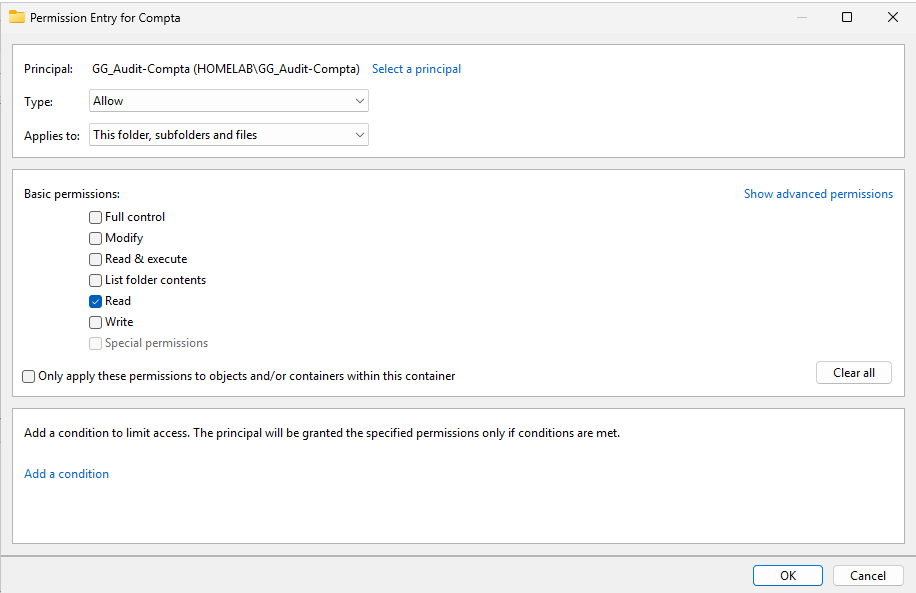
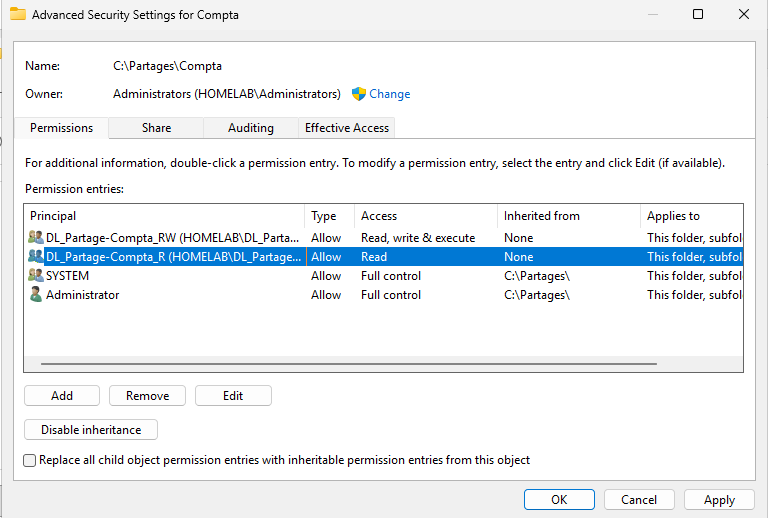
19/10 screenshots

Changed region(s): [[0.0, 0.0, 1.0, 0.9884]]

diff --git a/journal/2026-10-19.md b/journal/2026-10-19.md
@@ -1,0 +1,149 @@
+# Journal — 19 octobre 2026
+
+## Objectif de la séance
+
+Mettre en place les partages de fichiers des services de Homelab SARL, avec des droits d'accès construits selon la méthode AGDLP, puis traiter deux demandes d'utilisateurs liées aux accès.
+
+Séance menée en autonomie à partir d'une feuille de mission.
+
+## Réalisé
+
+- Création du dossier racine `C:\Partages` et de trois sous-dossiers : `Compta`, `RH`, `Commun`
+- Partage de la racine sur le réseau : `\\SRV-DC01\Partages`
+- Création des groupes de permission (domaine local) et imbrication des groupes de rôle
+- Configuration des droits NTFS : racine verrouillée, un groupe de permission par sous-dossier
+- Connexion du lecteur réseau `Z:` sur PC-CLIENT01 et tests avec plusieurs utilisateurs
+- Activation de la fonctionnalité *Privileged Access Management* de la forêt
+- Traitement de deux tickets : TKT-005 et TKT-006
+
+## Architecture retenue
+
+Un seul partage racine contenant un dossier par service, plutôt qu'un partage par service :
+- un seul partage à administrer et un seul lecteur réseau à connecter pour tous les utilisateurs ;
+- l'ajout d'un service se limite à la création d'un sous-dossier et d'un groupe de permission.
+
+Le partage s'appelait d'abord `Partagés`. Il a été renommé `Partages` : certains logiciels, scripts ou appareils gèrent mal les caractères accentués dans les chemins réseau, et la convention de nommage du lab exclut déjà les accents.
+
+![Assistant de création du partage](../screenshots/2026-10-19/2026-10-09_srv-dc01_sharedfolder-wizard.png)
+
+![Nom et description du partage](../screenshots/2026-10-19/2026-10-09_srv-dc01_sharedfolder-wizard2.png)
+
+## Méthode AGDLP
+
+```
+Utilisateurs  →  Groupe global (rôle)  →  Groupe domaine local (permission)  →  Dossier
+Alice, Thomas →  GG_Compta             →  DL_Partage-Compta_RW               →  Compta
+```
+
+| Groupe de permission (domaine local) | Membre(s) | Dossier |
+| --- | --- | --- |
+| `DL_Partage-Compta_RW` | `GG_Compta` | `Compta` |
+| `DL_Partage-RH_RW` | `GG_RH` | `RH` |
+| `DL_Partage-Commun_RW` | `Domain Users` | `Commun` |
+| `DL-Partage-Compta_R` | `GG-Audit-Compta` | `Compta`, lecture seule (TKT-006) |
+
+- Les droits NTFS sont attribués aux groupes de permission, jamais directement aux utilisateurs.
+- Un mouvement de personnel ne modifie que les groupes de rôle. Un nouveau dossier ne demande qu'un nouveau groupe de permission.
+- `Domain Users` est placé dans `DL_Partage-Commun_RW` : tout compte du domaine, y compris un nouvel arrivant sans groupe de service, accède automatiquement au dossier commun.
+- Seuls les groupes réellement nécessaires sont créés : `_RW` pour chaque service, `_R` uniquement lorsqu'un besoin de lecture seule est apparu (TKT-006).
+
+![Création d'un groupe domaine local](../screenshots/2026-10-19/2026-10-09_srv-dc01_creating-DL.png)
+
+![Groupes de permission](../screenshots/2026-10-19/2026-10-09_srv-dc01_creating-DL2.png)
+
+![Imbrication d'un groupe de rôle dans un groupe de permission](../screenshots/2026-10-19/2026-10-09_srv-dc01_associate-dl-gg.png)
+
+## Droits du partage et droits NTFS
+
+Un dossier partagé a deux niveaux de droits, et l'accès réel par le réseau est le plus restrictif des deux :
+
+| | Droits de partage | Droits NTFS |
+| --- | --- | --- |
+| S'appliquent | Uniquement par le réseau | Toujours, en local comme par le réseau |
+| Portée | Le partage entier | Chaque dossier et fichier, avec héritage |
+| Niveaux | Read, Change, Full Control | Une douzaine de droits, plus les droits avancés |
+
+Principe retenu : des droits de partage larges pour les utilisateurs authentifiés, et toute la finesse gérée par NTFS.
+
+Le groupe `Everyone`, présent par défaut sur le partage, a été remplacé par `Authenticated Users`, qui ne contient que des comptes authentifiés.
+
+![Droits du partage](../screenshots/2026-10-19/2026-10-09_srv-dc01_replace-authenticatedusers.png)
+
+### Dossier racine
+
+Le dossier racine héritait des droits de `C:\`, dont ceux du groupe intégré `Users`. Sur un contrôleur de domaine, ce groupe contient tous les utilisateurs du domaine : tout le monde pouvait lire la racine, et ces droits seraient descendus dans tous les sous-dossiers. En NTFS, les droits s'additionnent : ajouter un groupe sur un sous-dossier ne retire pas un accès hérité.
+
+Correction :
+1. Désactivation de l'héritage, avec conversion des droits hérités en droits explicites.
+2. Suppression des entrées `Users`.
+3. Conservation de `Administrators`, `SYSTEM` et `CREATOR OWNER`.
+4. Ajout des trois groupes `DL_…_RW` en lecture, appliquée à **ce dossier seulement** (*This folder only*) : les utilisateurs peuvent ouvrir la racine pour atteindre leur dossier, sans que ce droit ne descende dans les sous-dossiers ni ne permette de créer des fichiers à la racine.
+
+![Désactivation de l'héritage](../screenshots/2026-10-19/2026-10-09_srv-dc01_inheritance.png)
+
+![Racine après suppression des droits hérités](../screenshots/2026-10-19/2026-10-09_srv-dc01_securitysettings.png)
+
+![Entrée « This folder only »](../screenshots/2026-10-19/2026-10-09_srv-dc01_dossier-partage-permissions-group.png)
+
+![Droits finaux de la racine](../screenshots/2026-10-19/2026-10-09_srv-dc01_dossier-partage-permissions-group2.png)
+
+### Sous-dossiers
+
+Les sous-dossiers conservent l'héritage de la racine (`Administrators`, `SYSTEM`, `CREATOR OWNER`) et reçoivent leur groupe de permission, appliqué au dossier, à ses sous-dossiers et à ses fichiers.
+
+![Droits du dossier Commun](../screenshots/2026-10-19/2026-10-09_srv-dc01_security-commun.png)
+
+## Tests depuis PC-CLIENT01
+
+Lecteur `Z:` connecté sur `\\SRV-DC01\Partages`. Tous les tests sont réalisés avec des comptes utilisateurs, jamais avec un compte administrateur.
+
+| Utilisateur | Action | Résultat |
+| --- | --- | --- |
+| Alice Martin (Comptabilité) | Ouvrir `Compta` et y créer un dossier | Accès autorisé |
+| Alice Martin | Ouvrir `RH` | Accès refusé |
+| Utilisateur du domaine | Créer un fichier à la racine | Accès refusé |
+| Thomas Girard, sans groupe de service | Ouvrir `Commun` | Accès autorisé, grâce à `Domain Users` |
+| Thomas Girard, sans groupe de service | Ouvrir `Compta` | Accès refusé |
+| Sophie Lefèvre (RH), après TKT-006 | Ouvrir `Compta` | Accès en lecture |
+
+![Connexion du lecteur réseau](../screenshots/2026-10-19/2026-10-09_pc-client01_mapnetworkdrive.png)
+
+![Création refusée à la racine](../screenshots/2026-10-19/2026-10-09_pc-client01_access-root.png)
+
+![Alice : accès au dossier Compta](../screenshots/2026-10-19/2026-10-09_pc-client01_alice_access_compta.png)
+
+![Alice : accès refusé au dossier RH](../screenshots/2026-10-19/2026-10-09_pc-client01_alice_noaccess_rh.png)
+
+## Changement : activation de Privileged Access Management
+
+La fonctionnalité *Privileged Access Management Feature* a été activée sur la forêt `homelab.internal` pour permettre des appartenances temporaires aux groupes (TKT-006).
+
+- **Irréversible** : snapshot de SRV-DC01 pris avant l'activation.
+- **Prérequis** : niveau fonctionnel de forêt Windows Server 2016 ou supérieur (ici 2025), et droits *Enterprise Admins*. L'opération a été réalisée avec le compte `Administrator`, `dantoine.adm` n'étant membre que de *Domain Admins*.
+- En entreprise, cette activation relève d'une décision d'architecture, à valider avant toute mise en œuvre.
+
+![Activation de la fonctionnalité](../screenshots/2026-10-19/2026-10-09_tkt-006_PAM1.png)
+
+![Vérification de l'activation](../screenshots/2026-10-19/2026-10-09_tkt-006_PAM2.png)
+
+## Tickets traités
+
+| Ticket | Type | Résumé |
+| --- | --- | --- |
+| [TKT-005](../tickets/tkt-005_acces-refuse-compta.md) | Incident | Accès refusé au dossier Compta après ajout au groupe |
+| [TKT-006](../tickets/tkt-006_acces-temporaire-audit.md) | Demande de service | Accès temporaire en lecture au dossier Compta pour un audit |
+
+## Notions clés
+
+- **AGDLP** : Accounts → Global → Domain Local → Permissions. Les utilisateurs vont dans des groupes globaux de rôle, imbriqués dans des groupes domaine local de permission, seuls à recevoir les droits.
+- **Droits de partage et droits NTFS** : deux niveaux combinés, le plus restrictif l'emporte.
+- **Héritage NTFS** : un dossier hérite des droits de son parent. Les droits s'additionnent : un accès hérité ne disparaît pas quand on ajoute un groupe.
+- **This folder only** : un droit qui ne s'applique qu'au dossier lui-même, sans descendre vers son contenu.
+- **`Users` et `Domain Users`** : `Users` est un groupe local intégré, `Domain Users` est le groupe global de tous les comptes du domaine.
+- **Effective Access** : simulateur des droits NTFS d'un utilisateur sur un dossier, qui indique aussi si le partage limite l'accès. Outil de diagnostic, il n'attribue aucun droit.
+- **Jeton de session** : les groupes d'un utilisateur sont pris en compte à l'ouverture de session. Un groupe ajouté pendant la session n'est effectif qu'après reconnexion.
+- **Appartenance temporaire (PAM)** : un membre peut être ajouté à un groupe pour une durée limitée, au terme de laquelle il en sort automatiquement.
+
+## Prochaine étape
+
+Stratégies de groupe (GPO) : connexion automatique du lecteur réseau, paramètres des postes.

diff --git a/tickets/tkt-006_acces-temporaire-audit.md b/tickets/tkt-006_acces-temporaire-audit.md
@@ -1,0 +1,85 @@
+# TKT-006 — Accès temporaire au dossier Compta pour l'audit annuel
+
+| Champ | Valeur |
+| --- | --- |
+| Type | Demande de service |
+| Demandeur | Sophie Lefèvre (RH) |
+| Bénéficiaire | Sophie Lefèvre (RH) |
+| Date d'ouverture | 19/10/2026 |
+| Date de fin d'accès | 18/11/2026 (retrait automatique) |
+| Priorité | Basse (demande planifiée, aucun utilisateur bloqué) |
+| Statut | En attente (accès actif jusqu'au 18/11/2026) |
+
+## Description
+Pour l'audit annuel, j'ai besoin de consulter le dossier Compta pendant un mois.
+
+## Diagnostic
+- La demande porte sur les données d'un autre service : la décision appartient au responsable de la comptabilité, propriétaire des données. Validation demandée et obtenue (simulée dans le cadre du lab).
+- Besoin : **lecture seule**, pour une durée de **30 jours**.
+- Options écartées :
+  - ajouter `GG_RH` aux droits de `Compta` : tout le service RH aurait obtenu l'accès ;
+  - ajouter Sophie directement dans les droits du dossier ou dans un groupe domaine local : contraire à AGDLP, et difficile à suivre dans le temps.
+- Solution retenue : un groupe de rôle dédié à l'audit, imbriqué dans un groupe de permission en lecture seule, avec une appartenance limitée dans le temps.
+
+## Suivi
+
+### 19/10/2026 — Mise en place de l'accès
+
+**Actions :**
+1. Création du groupe domaine local `DL-Partage-Compta_R`, pour la lecture seule du dossier `Compta`.
+2. Création du groupe global `GG-Audit-Compta`, membre de `DL-Partage-Compta_R`.
+3. Ajout d'une entrée en lecture sur le dossier `Compta`, appliquée au dossier, à ses sous-dossiers et à ses fichiers.
+4. Activation de la fonctionnalité *Privileged Access Management* de la forêt (changement documenté dans le journal du 19/10/2026).
+5. Ajout de Sophie Lefèvre au groupe pour 30 jours :
+
+```powershell
+Add-ADGroupMember -Identity 'GG_Audit-Compta' -Members 'slefevre' -MemberTimeToLive (New-TimeSpan -Days 30)
+```
+
+![Création du groupe de permission](../screenshots/2026-10-19/2026-10-09_tkt-006_create-dl.png)
+
+![Création du groupe de rôle](../screenshots/2026-10-19/2026-10-09_tkt-006_create-gg.png)
+
+![Imbrication des groupes](../screenshots/2026-10-19/2026-10-09_tkt-006_dl-gg-membersof.png)
+
+![Entrée en lecture sur Compta](../screenshots/2026-10-19/2026-10-09_tkt-006_Add-audit-permission.png)
+
+![Ajout temporaire au groupe](../screenshots/2026-10-19/2026-10-09_tkt-006_PAM-temporary-access.png)
+
+**Vérification :**
+- Durée restante de l'appartenance, consultable uniquement en PowerShell :
+
+```powershell
+Get-ADGroup 'GG_Audit-Compta' -Properties member -ShowMemberTimeToLive | Select-Object -ExpandProperty member
+```
+
+```
+<TTL=2591767>,CN=Sophie Lefèvre,OU=Employees,OU=Internal,OU=Users,OU=ORG,DC=homelab,DC=internal
+```
+
+2 591 767 secondes, soit 30 jours.
+
+- Sophie accède au dossier `Compta` en lecture depuis PC-CLIENT01.
+
+![Durée restante](../screenshots/2026-10-19/2026-10-09_tkt-006_slefevre-timeleft.png)
+
+![Accès de Sophie à Compta](../screenshots/2026-10-19/2026-10-09_tkt-006_slefevre-access-compta.png)
+
+**Message au demandeur :**
+
+> Bonjour Sophie,
+>
+> Avec l'accord du responsable de la comptabilité, vous disposez d'un accès en lecture seule au dossier Compta jusqu'au 18 novembre 2026. Cet accès sera retiré automatiquement à cette date.
+>
+> Pour qu'il soit pris en compte, fermez votre session puis reconnectez-vous.
+>
+> Le support informatique
+
+**Statut :** En attente (fin d'accès le 18/11/2026)
+
+## Leçon retenue
+- Un accès à des données d'un autre service se valide avec le **propriétaire des données**, pas seulement avec le demandeur.
+- Un groupe dédié au besoin (ici l'audit) permet de retirer l'accès sans affecter personne d'autre, et de le réutiliser l'année suivante.
+- L'appartenance temporaire (`-MemberTimeToLive`) retire automatiquement l'utilisateur du groupe, et les tickets Kerberos délivrés sont limités à la durée restante : l'accès ne survit pas à l'expiration.
+- Cette appartenance n'apparaît pas dans les consoles graphiques : elle doit impérativement être documentée dans le ticket.
+- L'activation de *Privileged Access Management* est irréversible : en entreprise, c'est une décision d'architecture, à prendre avant de traiter un ticket.

diff --git a/tickets/tkt-005_acces-refuse-compta.md b/tickets/tkt-005_acces-refuse-compta.md
@@ -1,0 +1,72 @@
+# TKT-005 — Accès refusé au dossier Compta après ajout au groupe
+
+| Champ | Valeur |
+| --- | --- |
+| Type | Incident |
+| Demandeur | Thomas Girard (Comptabilité) |
+| Date d'ouverture | 19/10/2026 |
+| Date de clôture | 19/10/2026 |
+| Priorité | Moyenne (impact faible : un seul utilisateur ; urgence moyenne : il ne peut pas accéder à ses fichiers de travail) |
+| Statut | Clos |
+
+## Description
+Je viens d'être ajouté au groupe de la compta, mais j'ai toujours « Accès refusé » sur le dossier Compta.
+
+## Reproduction
+1. Retrait de Thomas Girard du groupe `GG_Compta`.
+2. Ouverture de session de Thomas sur PC-CLIENT01.
+3. Ajout de Thomas à `GG_Compta` pendant que sa session est ouverte.
+4. Tentative d'ouverture de `\\SRV-DC01\Partages\Compta`.
+
+![Retrait du groupe](../screenshots/2026-10-19/2026-10-09_tkt-005_remove-thomas-group.png)
+
+![Session ouverte sur PC-CLIENT01](../screenshots/2026-10-19/2026-10-09_tkt-005_login-thomas.png)
+
+![Ajout au groupe, session ouverte](../screenshots/2026-10-19/2026-10-09_tkt-005_add-thomas-group.png)
+
+## Diagnostic
+- **Côté poste** : accès refusé à `Compta`. L'accès à `Commun` fonctionne : le poste joint bien le serveur et le partage.
+- **Côté Active Directory** : Thomas est bien membre de `GG_Compta`, lui-même membre de `DL_Partage-Compta_RW`.
+- **Côté serveur** : l'onglet *Effective Access* du dossier `Compta`, pour l'utilisateur `tgirard`, montre que l'accès en lecture lui est accordé.
+- **Conclusion** : le serveur et l'annuaire autorisent l'accès, mais la session de Thomas ne le reflète pas. Son appartenance au groupe n'est pas prise en compte par la session en cours.
+
+![Accès refusé à Compta](../screenshots/2026-10-19/2026-10-09_tkt-005_thomas-noaccess-compta.png)
+
+![Accès à Commun](../screenshots/2026-10-19/2026-10-09_tkt-005_thomas-access-commun.png)
+
+![Effective Access de Thomas sur Compta](../screenshots/2026-10-19/2026-10-09_tkt-005_thomas-effectiveaccess-compta.png)
+
+## Cause
+Les groupes d'un utilisateur sont inscrits dans son jeton de session et dans ses tickets Kerberos au moment de l'ouverture de session. Un groupe ajouté pendant la session n'est pas pris en compte tant que l'utilisateur ne s'est pas reconnecté.
+
+## Suivi
+
+### 19/10/2026 — Résolution
+
+**Actions :**
+- Demande à l'utilisateur de fermer complètement sa session (*Sign out*), puis de se reconnecter.
+
+**Vérification :**
+- Accès au dossier `Compta` et à son contenu.
+
+![Accès à Compta après reconnexion](../screenshots/2026-10-19/2026-10-09_tkt-005_restartsession-thomas-access-compta.png)
+
+**Statut :** Clos
+
+## Observation
+Pendant le test, la commande `whoami /groups` exécutée sur le poste affichait déjà `GG_Compta` et `DL_Partage-Compta_RW`, alors que l'accès au dossier était refusé. Le jeton de la session locale et les tickets Kerberos présentés au serveur de fichiers peuvent ne pas être synchronisés : `whoami` ne reflète donc pas toujours ce que voit le serveur. La commande `klist` affiche les tickets Kerberos, dont celui du serveur de fichiers (`cifs/SRV-DC01`), et `klist purge` les supprime pour forcer leur renouvellement.
+
+## Message de clôture
+
+> Bonjour Thomas,
+>
+> Votre accès au dossier Compta fonctionne. Quand on vous ajoute à un nouveau groupe, l'accès n'est pris en compte qu'à la prochaine ouverture de session : il suffisait de vous déconnecter puis de vous reconnecter.
+>
+> N'hésitez pas à nous recontacter si le problème se reproduit.
+>
+> Le support informatique
+
+## Leçon retenue
+- Après l'ajout d'un utilisateur à un groupe, toujours lui demander de fermer puis rouvrir sa session. Un simple verrouillage de l'écran ne suffit pas.
+- Comparer ce que dit le serveur (*Effective Access*) et ce que vit l'utilisateur permet de localiser rapidement le problème : ici, les droits étaient corrects, seule la session était en retard.
+- Prévenir l'utilisateur au moment de l'ajout évite le ticket : « Votre accès sera actif à votre prochaine connexion. »
